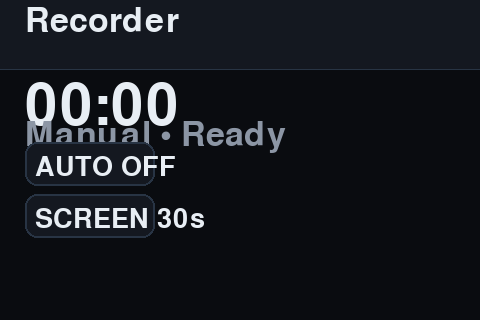
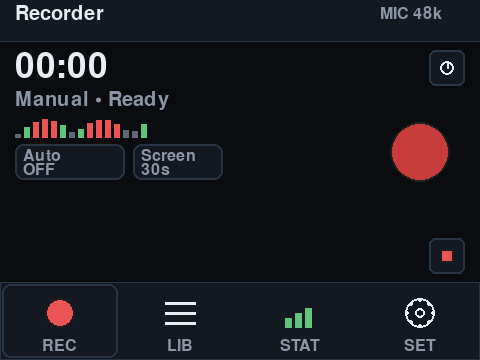
Fix UI font scaling and regenerate screenshots with proper sizing

diff --git a/ui/theme.py b/ui/theme.py
@@ -24,8 +24,8 @@ def _is_desktop():
     except (OSError, IOError):
         return True  # Assume desktop if can't detect
 
-# Scale factor for desktop mode (2.5x makes it much bigger but still reasonable)
-DESKTOP_SCALE = 2.5 if _is_desktop() else 1.0
+# Scale factor for desktop mode (1.5x makes text readable without being too large)
+DESKTOP_SCALE = 1.5 if _is_desktop() else 1.0
 
 # Scaled dimensions
 SCREEN_WIDTH = int(BASE_SCREEN_WIDTH * DESKTOP_SCALE)
